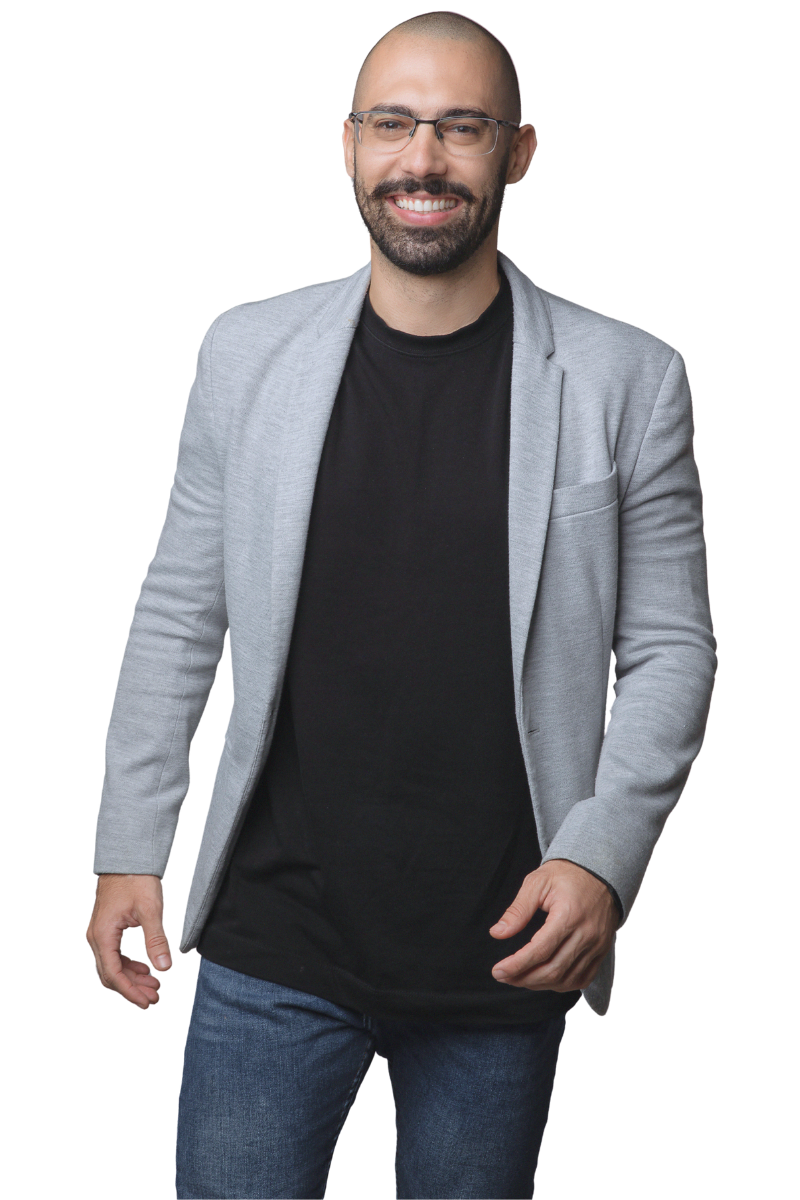
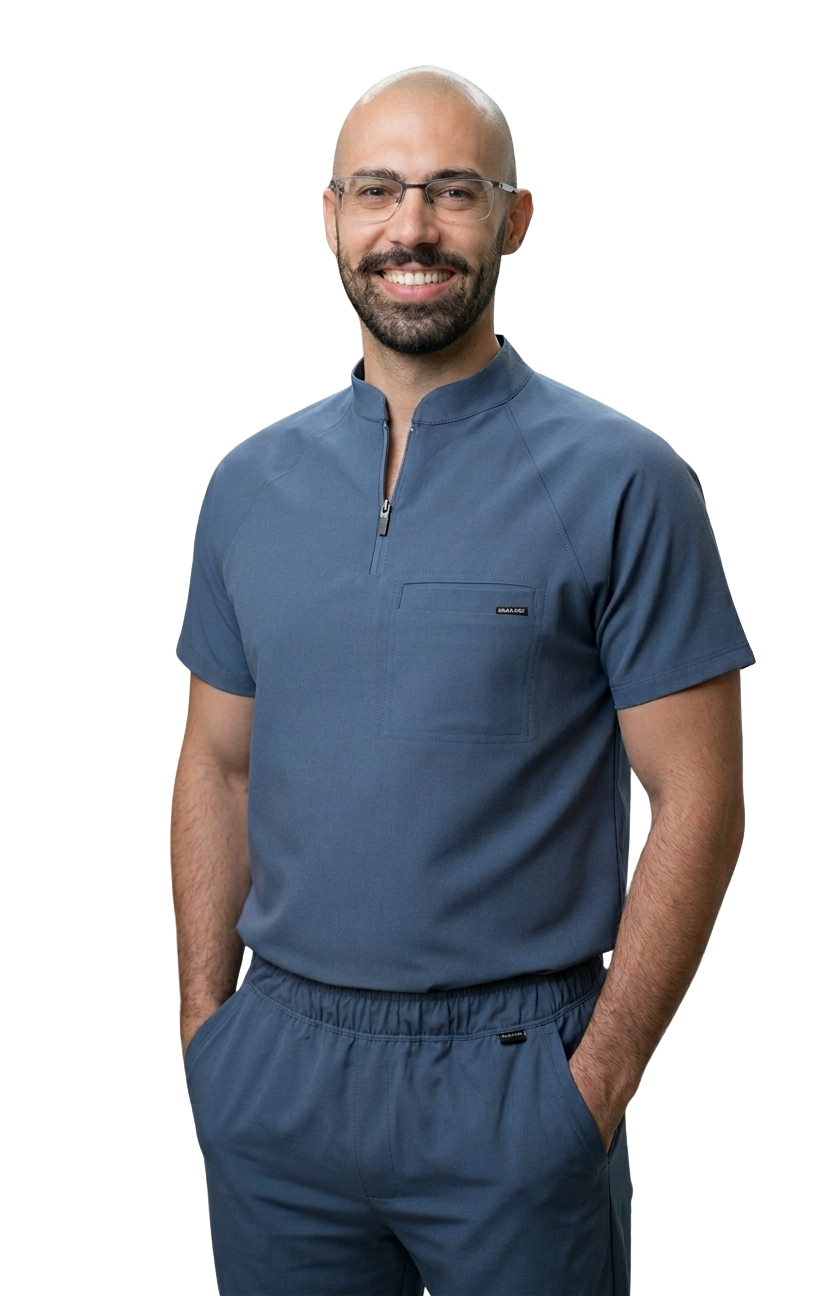
Update hero assets and WhatsApp header CTA

diff --git a/src/components/layout/Menu.tsx b/src/components/layout/Menu.tsx
@@ -1,5 +1,5 @@
 import { Link, useLocation } from 'react-router-dom'
-import { Menu as MenuIcon, Phone } from 'lucide-react'
+import { Menu as MenuIcon } from 'lucide-react'
 import { Button } from '@/components/ui/button'
 import {
   Sheet,
@@ -18,6 +18,11 @@ interface MenuProps {
 
 export function Menu({ transparent = false }: MenuProps) {
   const location = useLocation()
+  const whatsappNumber = businessInfo.phones.whatsapp.replace(/\D/g, '')
+  const whatsappMessage = encodeURIComponent(
+    'Olá, equipe da Clínica Santos & Goulart Odontologia. Vim pelo site e gostaria de agendar uma consulta com o Dr. Rogério Goulart. Podem me informar os próximos horários disponíveis?'
+  )
+  const whatsappUrl = `https://wa.me/55${whatsappNumber}?text=${whatsappMessage}`
   
   // Função para verificar se uma rota está ativa
   const isActive = (path: string) => {
@@ -95,12 +100,13 @@ export function Menu({ transparent = false }: MenuProps) {
             <div className="flex items-center gap-4">
               <ThemeSwitcher />
               <a 
-                href={`https://wa.me/${businessInfo.phones.whatsapp.replace(/\D/g, '')}`}
+                href={whatsappUrl}
                 target="_blank"
                 rel="noopener noreferrer"
                 className="flex items-center gap-2 px-4 py-2 rounded-md bg-accent hover:brightness-105 text-accent-foreground font-medium transition-[filter]"
+                aria-label="Abrir WhatsApp para agendar consulta"
               >
-                <Phone className="h-4 w-4" />
+                <WhatsAppIcon className="h-4 w-4" />
                 {businessInfo.phones.main}
               </a>
             </div>
@@ -177,12 +183,13 @@ export function Menu({ transparent = false }: MenuProps) {
                     <ThemeSwitcher />
                   </div>
                   <a 
-                    href={`https://wa.me/${businessInfo.phones.whatsapp.replace(/\D/g, '')}`}
+                    href={whatsappUrl}
                     target="_blank"
                     rel="noopener noreferrer"
                     className="flex items-center gap-2 px-4 py-2 rounded-md bg-accent hover:brightness-105 text-accent-foreground font-medium transition-[filter]"
+                    aria-label="Abrir WhatsApp para agendar consulta"
                   >
-                    <Phone className="h-5 w-5" />
+                    <WhatsAppIcon className="h-5 w-5" />
                     {businessInfo.phones.main}
                   </a>
                 </nav>
@@ -192,5 +199,18 @@ export function Menu({ transparent = false }: MenuProps) {
         </div>
       </div>
     </nav>
+  )
+}
+
+function WhatsAppIcon({ className }: { className?: string }) {
+  return (
+    <svg
+      viewBox="0 0 24 24"
+      fill="currentColor"
+      aria-hidden="true"
+      className={className}
+    >
+      <path d="M19.05 4.94A9.9 9.9 0 0 0 12 2a9.94 9.94 0 0 0-8.61 14.91L2 22l5.25-1.37A9.94 9.94 0 1 0 19.05 4.94ZM12 20.1a8.26 8.26 0 0 1-4.21-1.15l-.3-.17-3.11.81.83-3.03-.2-.31A8.26 8.26 0 1 1 12 20.1Zm4.54-6.2c-.25-.12-1.46-.72-1.69-.8-.23-.08-.4-.12-.57.12-.17.25-.65.8-.8.96-.15.17-.29.19-.54.06-.25-.12-1.04-.38-1.98-1.22-.73-.65-1.22-1.46-1.36-1.71-.14-.25-.02-.38.11-.5.12-.12.25-.29.37-.44.12-.15.17-.25.25-.42.08-.17.04-.31-.02-.44-.06-.12-.57-1.38-.78-1.9-.2-.49-.41-.42-.57-.43h-.49c-.17 0-.44.06-.67.31-.23.25-.88.86-.88 2.1s.9 2.44 1.03 2.61c.12.17 1.76 2.68 4.25 3.76.59.25 1.06.4 1.42.51.6.19 1.15.16 1.58.1.48-.07 1.46-.6 1.67-1.17.21-.58.21-1.07.15-1.17-.06-.1-.23-.16-.48-.29Z" />
+    </svg>
   )
 }

diff --git a/src/contexts/ImageContext.tsx b/src/contexts/ImageContext.tsx
@@ -1,12 +1,10 @@
 import { createContext, useContext, useState } from 'react'
 import type { ReactNode } from 'react'
-import drRogerio01Image from '@/images/dr-rogerio-goulart-01.png'
 import drRogerioImage from '@/images/dr-rogerio-goulart.png'
 import rogerioImage from '@/images/rogerio-goulart.png'
 import rogerio02Image from '@/images/rogerio-groulart-02.png'
 
 export type ImageName =
-  | 'dr-rogerio-goulart-01'
   | 'dr-rogerio-goulart'
   | 'rogerio-goulart'
   | 'rogerio-groulart-02'
@@ -17,35 +15,29 @@ export interface ImageOption {
   src: string
 }
 
-const DEFAULT_IMAGE_NAME: ImageName = 'dr-rogerio-goulart-01'
+const DEFAULT_IMAGE_NAME: ImageName = 'dr-rogerio-goulart'
 const IMAGE_SELECTION_VERSION_KEY = 'selectedImageVersion'
-const CURRENT_IMAGE_SELECTION_VERSION = '2026-04-dr-rogerio-01-primary'
+const CURRENT_IMAGE_SELECTION_VERSION = '2026-04-dr-rogerio-primary'
 
 const images: Record<ImageName, ImageOption> = {
-  'dr-rogerio-goulart-01': {
-    name: 'dr-rogerio-goulart-01',
-    label: 'Foto 1',
-    src: drRogerio01Image
-  },
   'dr-rogerio-goulart': {
     name: 'dr-rogerio-goulart',
-    label: 'Foto 2',
+    label: 'Foto 1',
     src: drRogerioImage
   },
   'rogerio-goulart': {
     name: 'rogerio-goulart',
-    label: 'Foto 3',
+    label: 'Foto 2',
     src: rogerioImage
   },
   'rogerio-groulart-02': {
     name: 'rogerio-groulart-02',
-    label: 'Foto 4',
+    label: 'Foto 3',
     src: rogerio02Image
   }
 }
 
 const orderedImageNames: ImageName[] = [
-  'dr-rogerio-goulart-01',
   'dr-rogerio-goulart',
   'rogerio-goulart',
   'rogerio-groulart-02'

diff --git a/src/pages/About.tsx b/src/pages/About.tsx
@@ -2,7 +2,7 @@ import { SEO } from '@/components/SEO'
 import { CTAButton, CTAButtonLine } from '@/components/ui/cta-button'
 import { GraduationCap, Award, Heart, Target, Clock, Users, CheckCircle2 } from 'lucide-react'
 import { businessInfo } from '@/data/businessInfo'
-import rogerioImage from '@/images/rogerio-goulart.png'
+import rogerioImage from '@/images/dr-rogerio-goulart-interna.png'
 
 export function About() {
   return (
@@ -22,11 +22,13 @@ export function About() {
       <section className="relative min-h-[60vh] flex items-center overflow-hidden">
         {/* Imagem de fundo */}
         <div className="absolute inset-0">
+          <div className="absolute inset-x-0 bottom-0 top-[10px]">
           <img
             src={rogerioImage}
             alt="Dr. Rogério Goulart - Especialista em Odontologia"
-            className="w-full h-full object-cover"
+            className="w-full h-full object-contain object-right-top"
           />
+          </div>
           {/* Overlay gradiente escuro da esquerda para direita */}
           <div className="absolute inset-0 bg-gradient-to-r from-foreground/90 via-foreground/70 to-transparent" />
         </div>

diff --git a/src/components/sections/HeaderSection.tsx b/src/components/sections/HeaderSection.tsx
@@ -6,15 +6,15 @@ export function HeaderSection() {
   const imageClassName =
     currentImage.name === 'rogerio-groulart-02'
       ? 'doctor-image doctor-image-02'
-      : currentImage.name === 'dr-rogerio-goulart-01'
-        ? 'doctor-image doctor-image-01'
+      : currentImage.name === 'dr-rogerio-goulart'
+        ? 'doctor-image doctor-image-interna'
         : 'doctor-image'
 
   return (
     <section className="relative w-full overflow-hidden">
       {/* Container com duas "linhas" */}
       <div className="flex flex-col">
-        
+
         {/* Linha de cima - Header (fundo verde) */}
         <div className="hero-section relative flex items-center bg-brand min-h-[58vh]">
           <div className="w-full relative z-10 pt-4">
